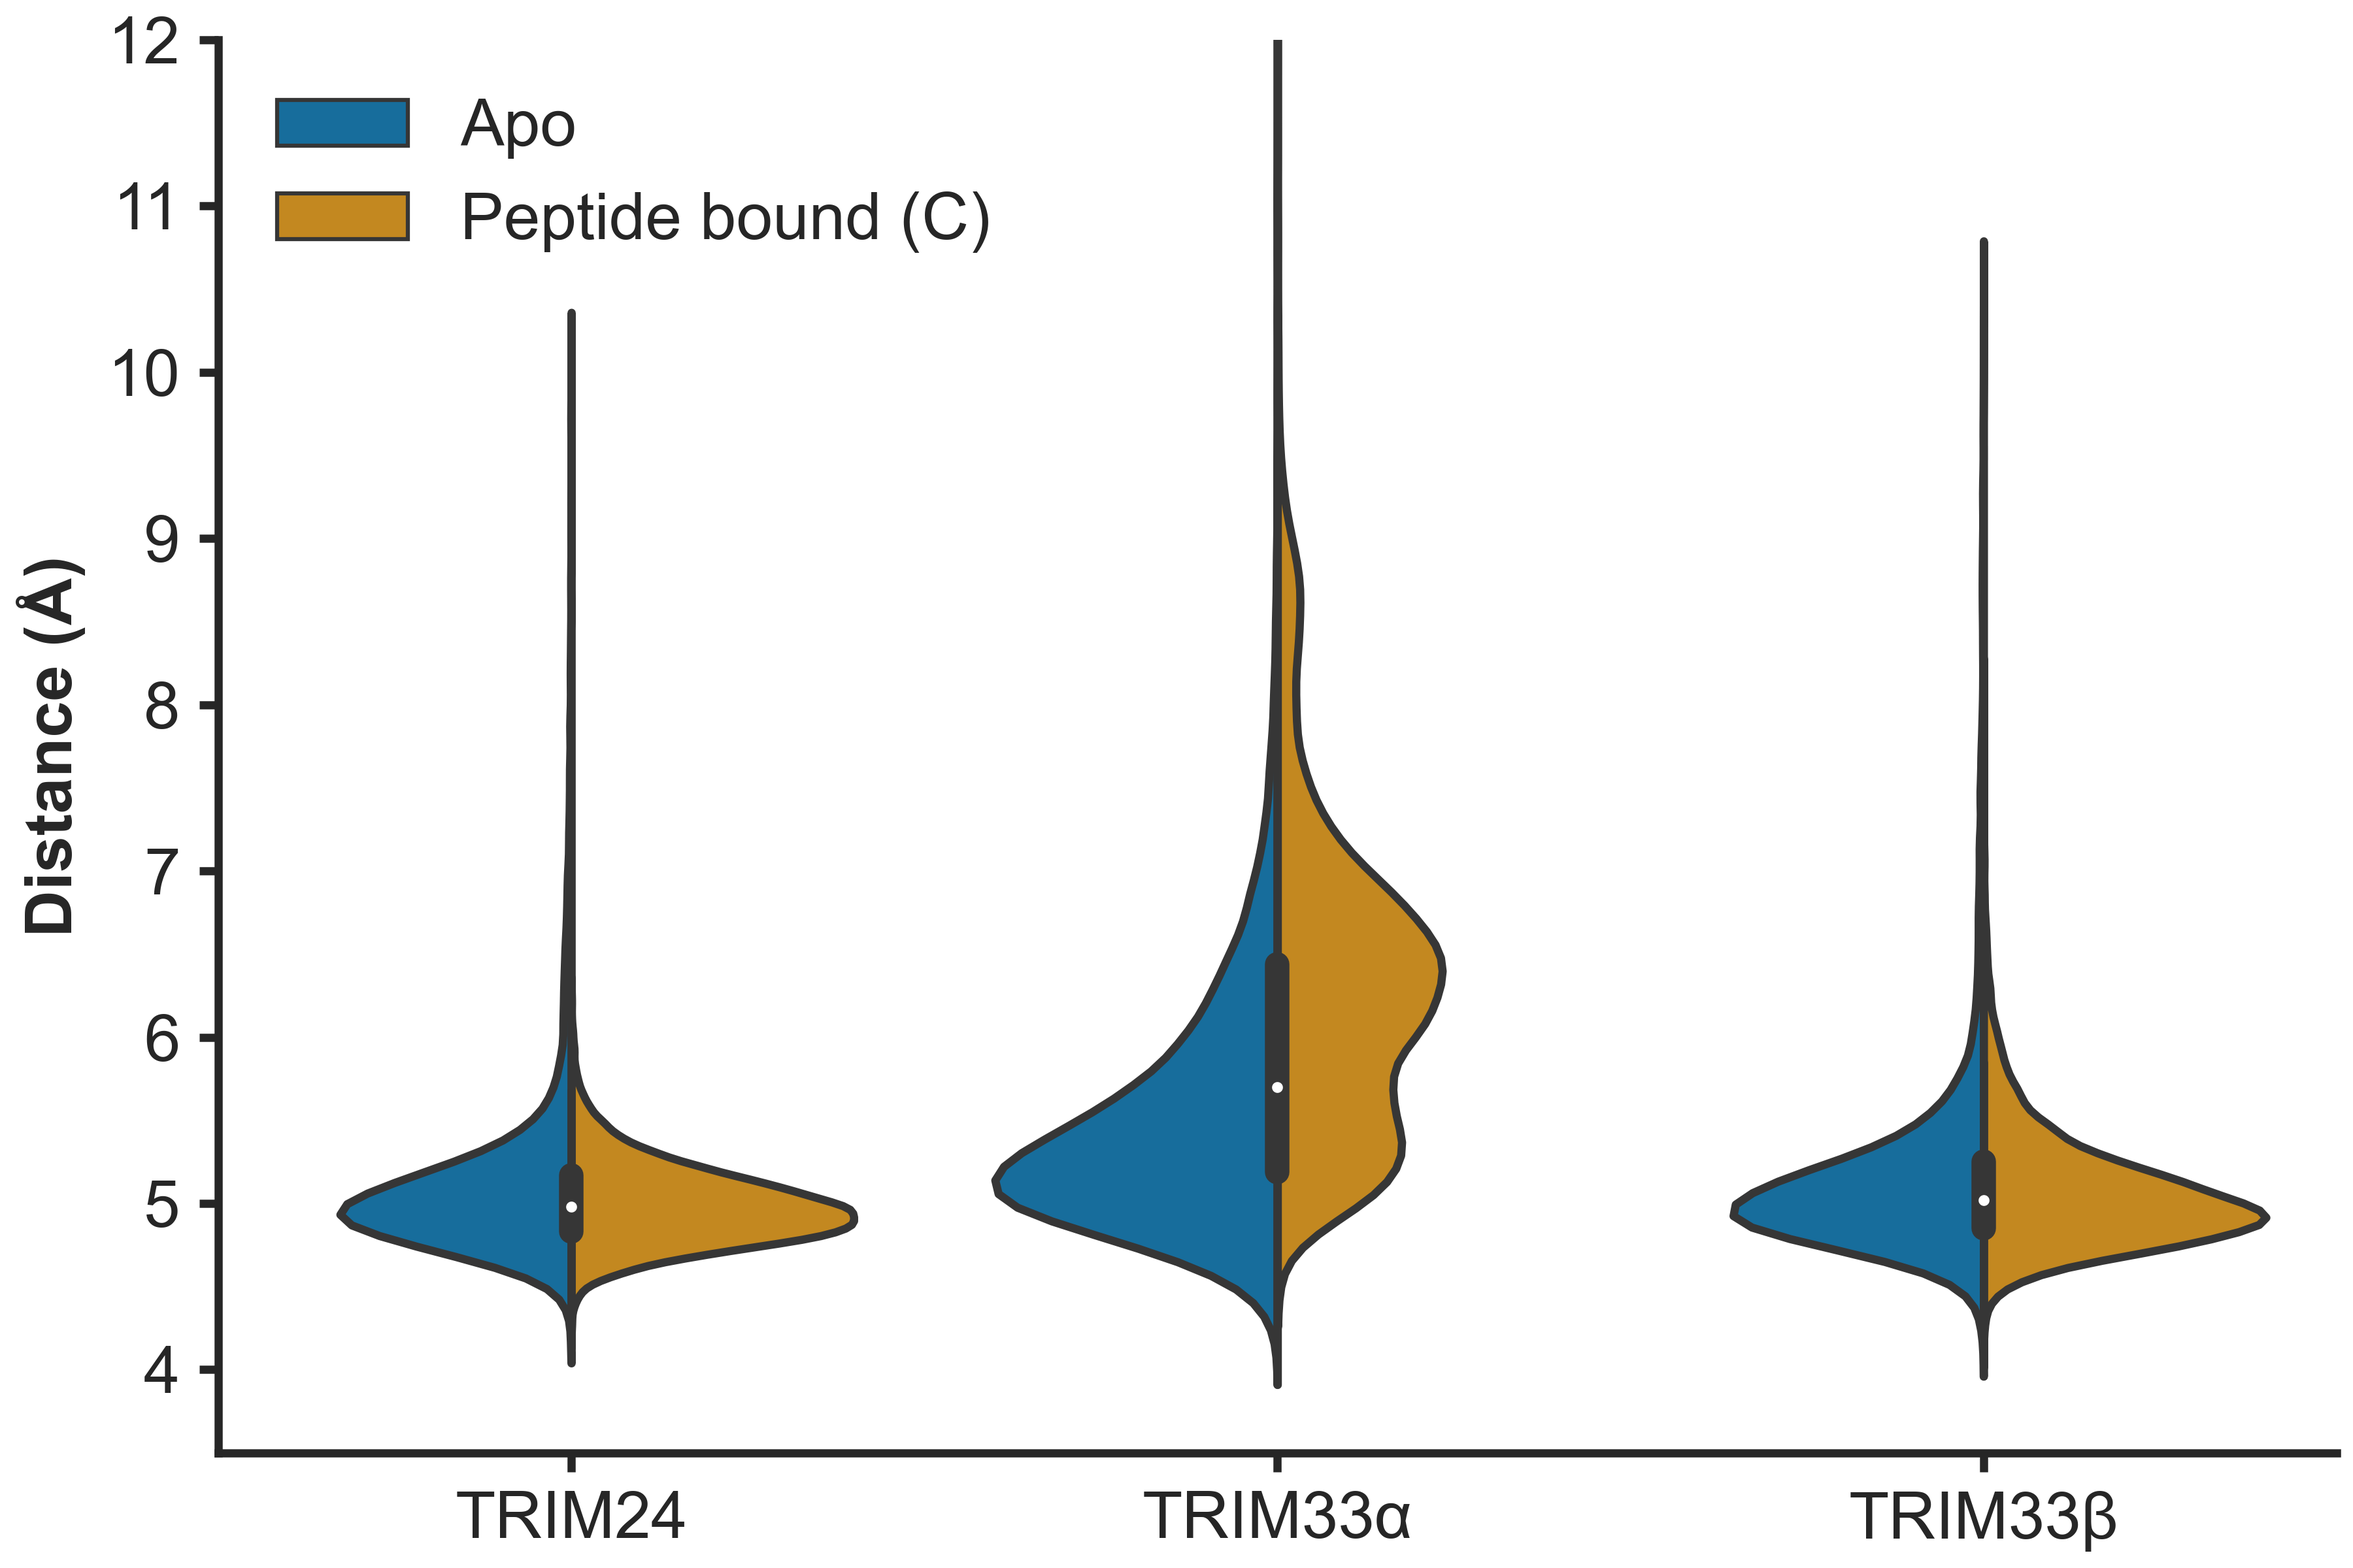
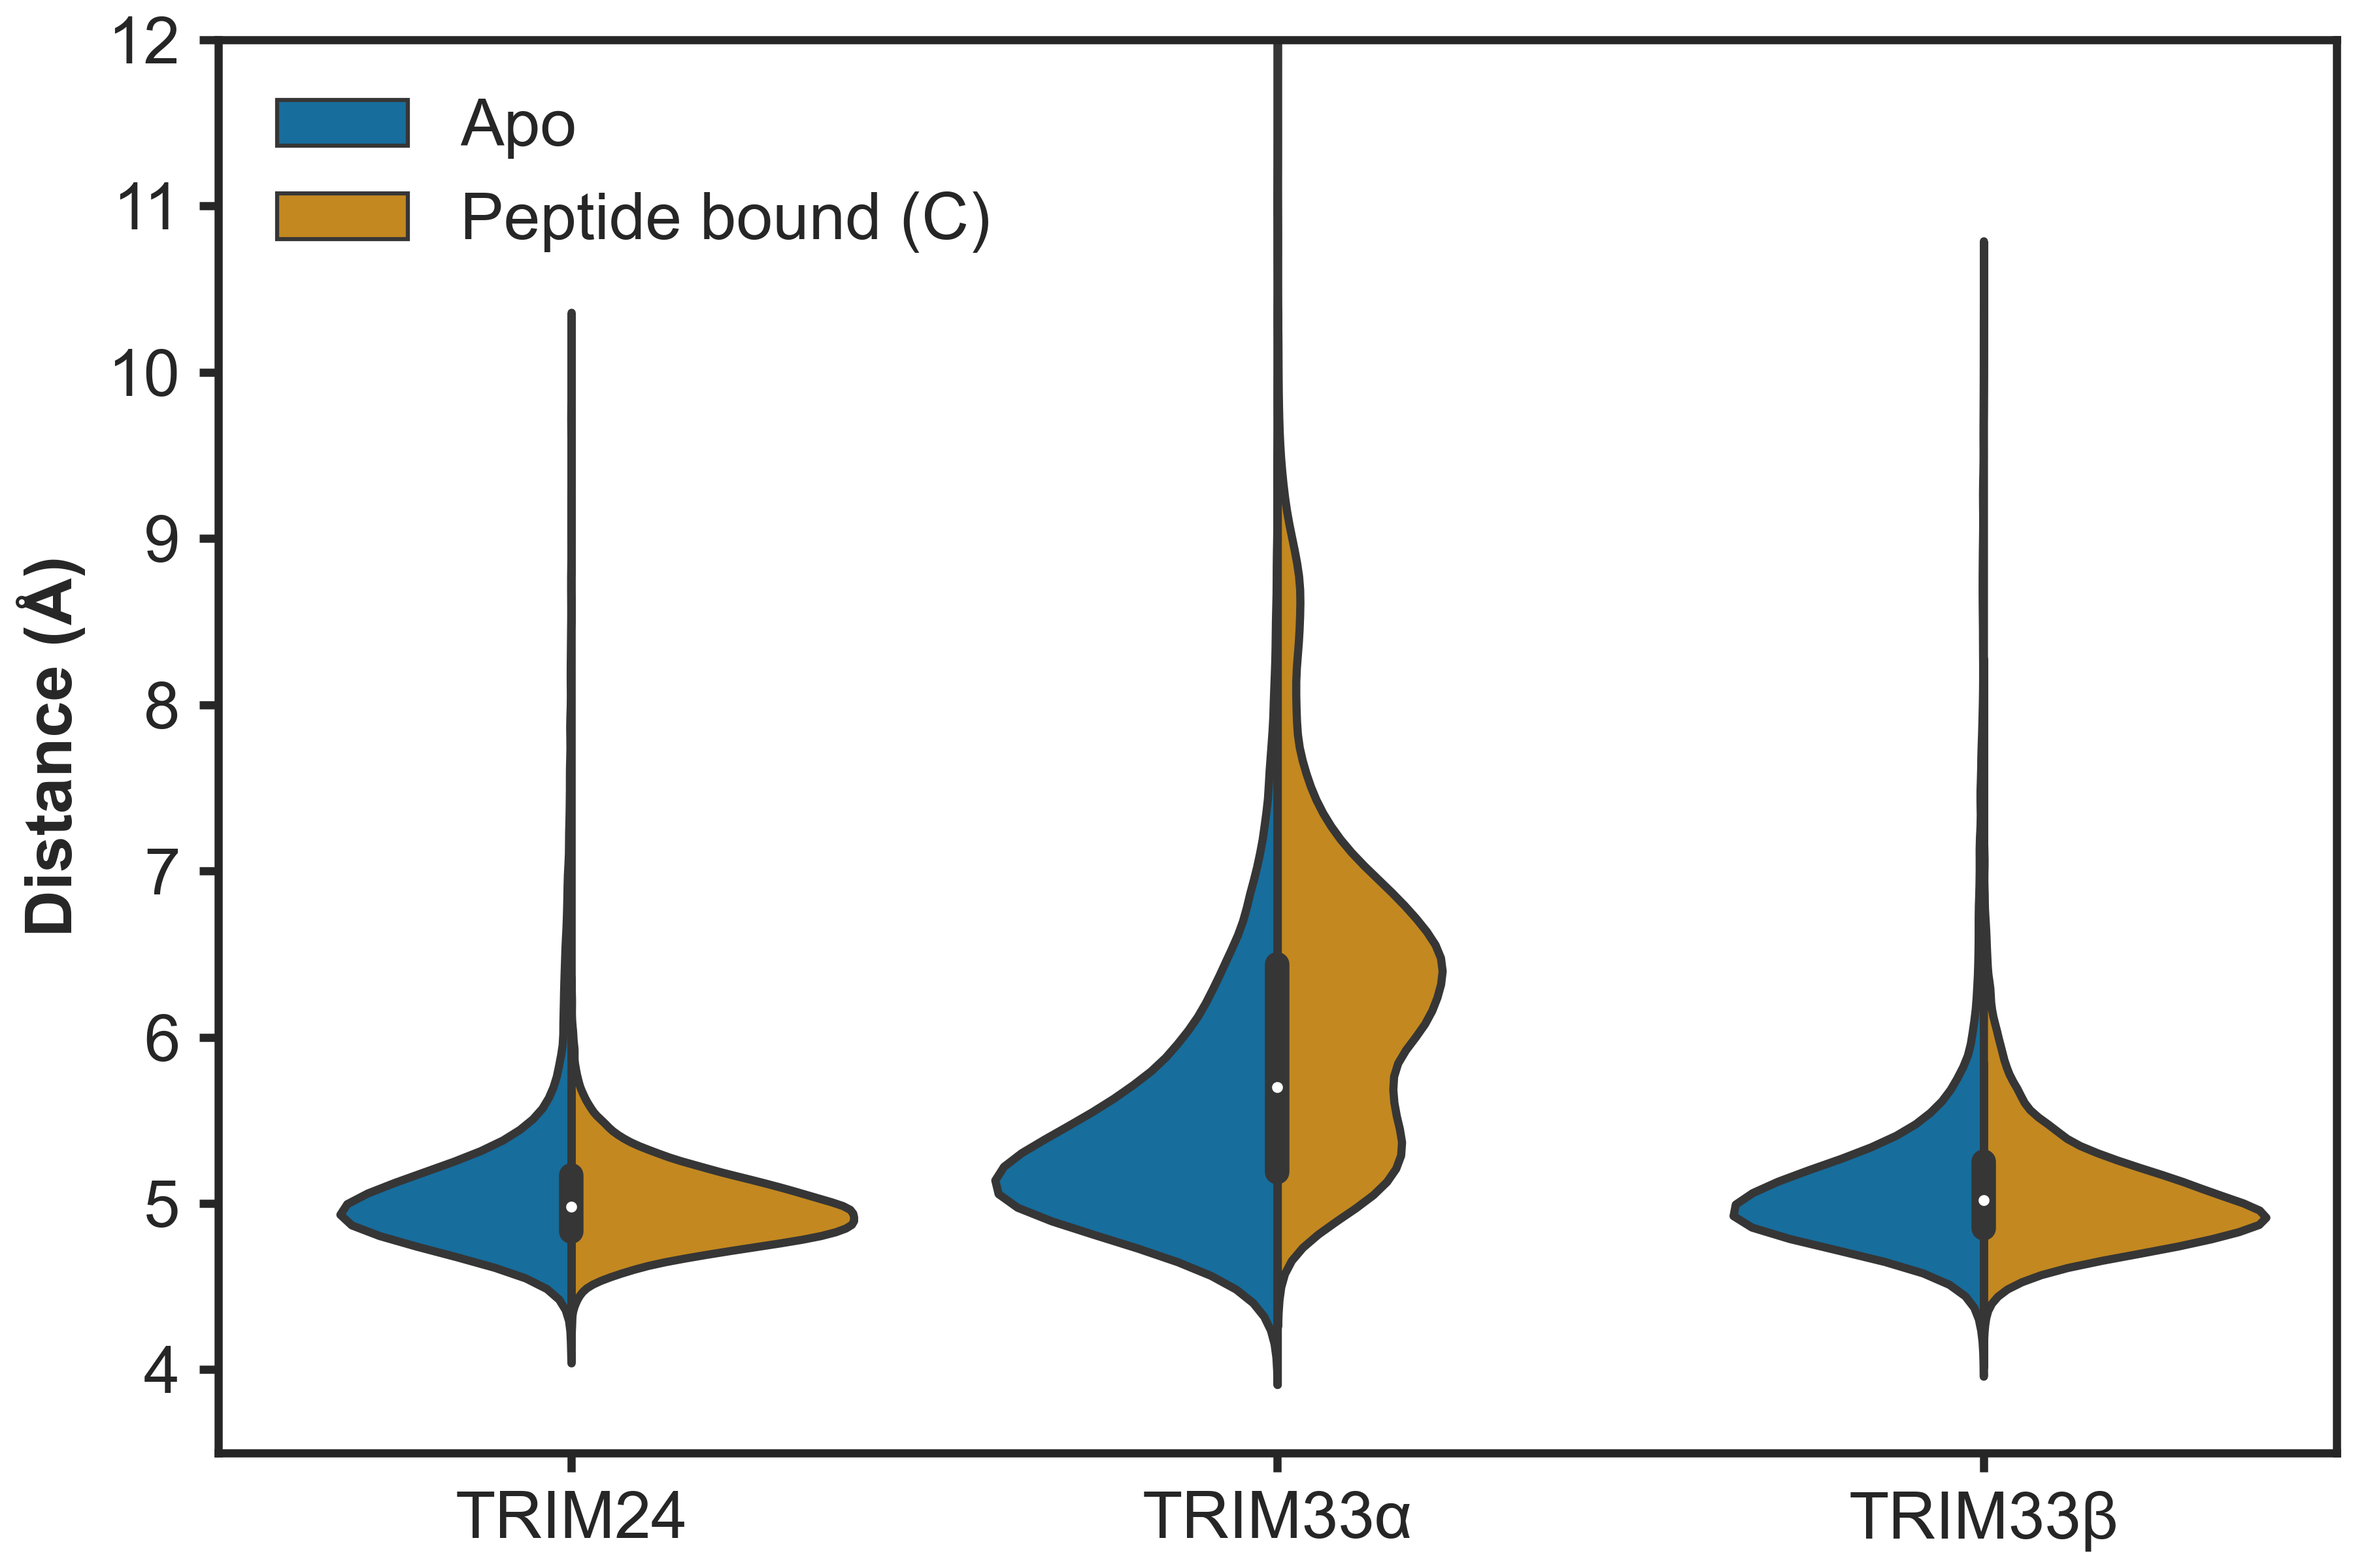
update for thesis

Changed region(s): [[0.0933, 0.0, 0.9956, 0.9062]]

diff --git a/workflow/scripts/compare_3_pep_rmsf.py b/workflow/scripts/compare_3_pep_rmsf.py
@@ -104,8 +104,8 @@ for i, (set_1, set_2, set_3) in enumerate(zip(files_1, files_2, files_3)):
             xticks=resi,
             xticklabels=resi,
             ylim=(ymin, ymax),
-            title=labels[i],
         )
+        axes[i].set_title(labels[i], pad=8)
         axes[i].tick_params(axis="x", which="major", labelsize=10)
         axes[i].legend(frameon=False, loc="upper left")
     else:
@@ -113,9 +113,8 @@ for i, (set_1, set_2, set_3) in enumerate(zip(files_1, files_2, files_3)):
             xlabel="Peptide residue number",
             xticks=resi,
             xticklabels=resi,
-            title=labels[i],
         )
+        axes[i].set_title(labels[i], pad=8)
         axes[i].tick_params(axis="x", which="major", labelsize=10)
 
-sns.despine()
 fig.savefig(snakemake.output[0], dpi=600)

diff --git a/workflow/scripts/compare_2_pep_rmsf.py b/workflow/scripts/compare_2_pep_rmsf.py
@@ -89,8 +89,8 @@ for i, (set_1, set_2) in enumerate(zip(files_1, files_2)):
             xticks=resi,
             xticklabels=resi,
             ylim=(ymin, ymax),
-            title=labels[i],
         )
+        axes[i].set_title(labels[i], pad=8)
         axes[i].tick_params(axis="x", which="major", labelsize=10)
         axes[i].legend(frameon=False, loc="upper left")
     else:
@@ -98,9 +98,8 @@ for i, (set_1, set_2) in enumerate(zip(files_1, files_2)):
             xlabel="Peptide residue number",
             xticks=resi,
             xticklabels=resi,
-            title=labels[i],
         )
+        axes[i].set_title(labels[i], pad=8)
         axes[i].tick_params(axis="x", which="major", labelsize=10)
 
-sns.despine()
 fig.savefig(snakemake.output[0], dpi=600)

diff --git a/workflow/scripts/compare_2_plip_breakdown.py b/workflow/scripts/compare_2_plip_breakdown.py
@@ -74,6 +74,7 @@ resi_plot = sns.catplot(
     height=4.0,
     aspect=0.9,
     legend=False,
+    facet_kws=dict(despine=False),
 )
 
 # legend on leftmost axes only
@@ -88,7 +89,7 @@ resi_plot.fig.get_axes()[0].set(ylim=(ymin, ymax))
 
 (
     resi_plot.set_axis_labels("", "Count")
-    .set_titles("{col_name}")
+    .set_titles("{col_name}", pad=8)
     .set_xticklabels(resi_types)
 )
 

diff --git a/workflow/scripts/compare_2_plip_hydrophilic_hydrophobic.py b/workflow/scripts/compare_2_plip_hydrophilic_hydrophobic.py
@@ -74,6 +74,7 @@ resi_plot = sns.catplot(
     height=4.0,
     aspect=0.9,
     legend=False,
+    facet_kws=dict(despine=False),
 )
 
 # legend on leftmost axes only
@@ -85,7 +86,7 @@ resi_plot.fig.get_axes()[0].set(ylim=(ymin, ymax))
 
 (
     resi_plot.set_axis_labels("", "Count")
-    .set_titles("{col_name}")
+    .set_titles("{col_name}", pad=8)
     .set_xticklabels(resi_types)
 )
 

diff --git a/workflow/scripts/compare_3_plip_breakdown.py b/workflow/scripts/compare_3_plip_breakdown.py
@@ -75,6 +75,7 @@ resi_plot = sns.catplot(
     height=4.0,
     aspect=0.9,
     legend=False,
+    facet_kws=dict(despine=False),
 )
 
 # legend on leftmost axes only
@@ -89,7 +90,7 @@ resi_plot.fig.get_axes()[0].set(ylim=(ymin, ymax))
 
 (
     resi_plot.set_axis_labels("", "Count")
-    .set_titles("{col_name}")
+    .set_titles("{col_name}", pad=8)
     .set_xticklabels(resi_types)
 )
 

diff --git a/workflow/scripts/compare_3_plip_hydrophilic_hydrophobic.py b/workflow/scripts/compare_3_plip_hydrophilic_hydrophobic.py
@@ -75,6 +75,7 @@ resi_plot = sns.catplot(
     height=4.0,
     aspect=0.9,
     legend=False,
+    facet_kws=dict(despine=False),
 )
 
 # legend on leftmost axes only
@@ -86,7 +87,7 @@ resi_plot.fig.get_axes()[0].set(ylim=(ymin, ymax))
 
 (
     resi_plot.set_axis_labels("", "Count")
-    .set_titles("{col_name}")
+    .set_titles("{col_name}", pad=8)
     .set_xticklabels(resi_types)
 )
 

diff --git a/workflow/scripts/split_violins_distances.py b/workflow/scripts/split_violins_distances.py
@@ -66,5 +66,4 @@ ax.set(
 )
 ax.legend(frameon=False, loc="upper left")
 
-sns.despine()
 fig.savefig(snakemake.output[0], dpi=600)
